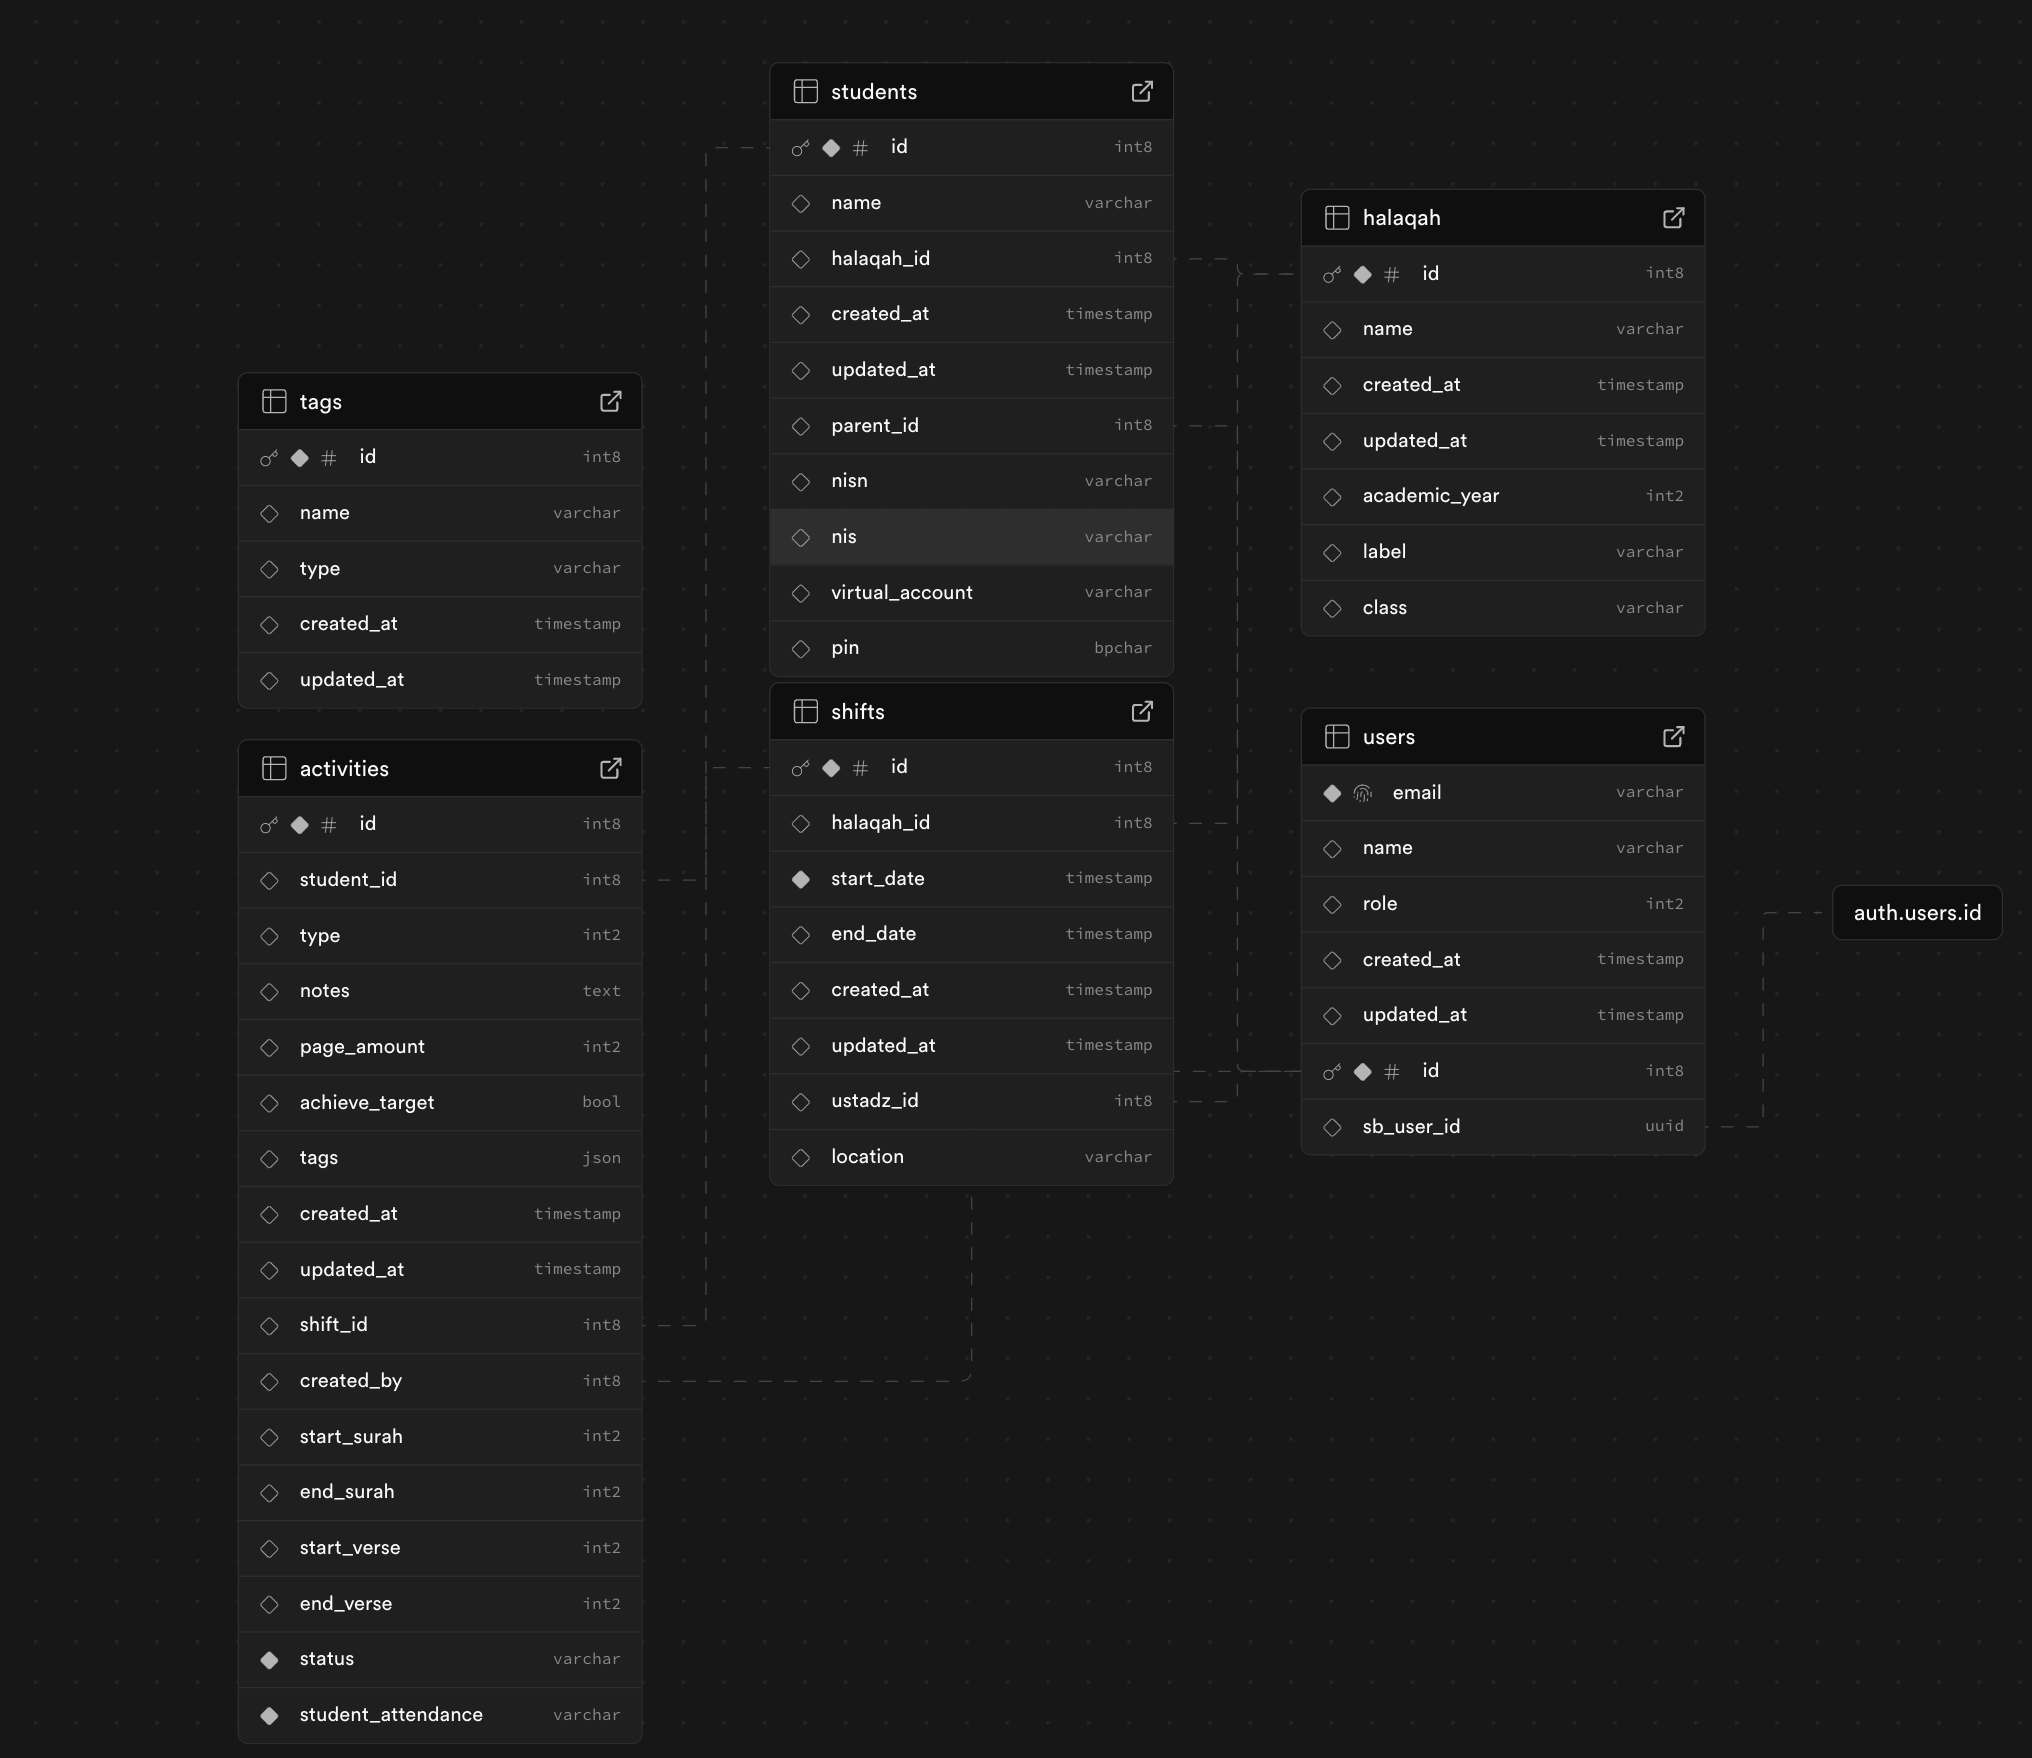
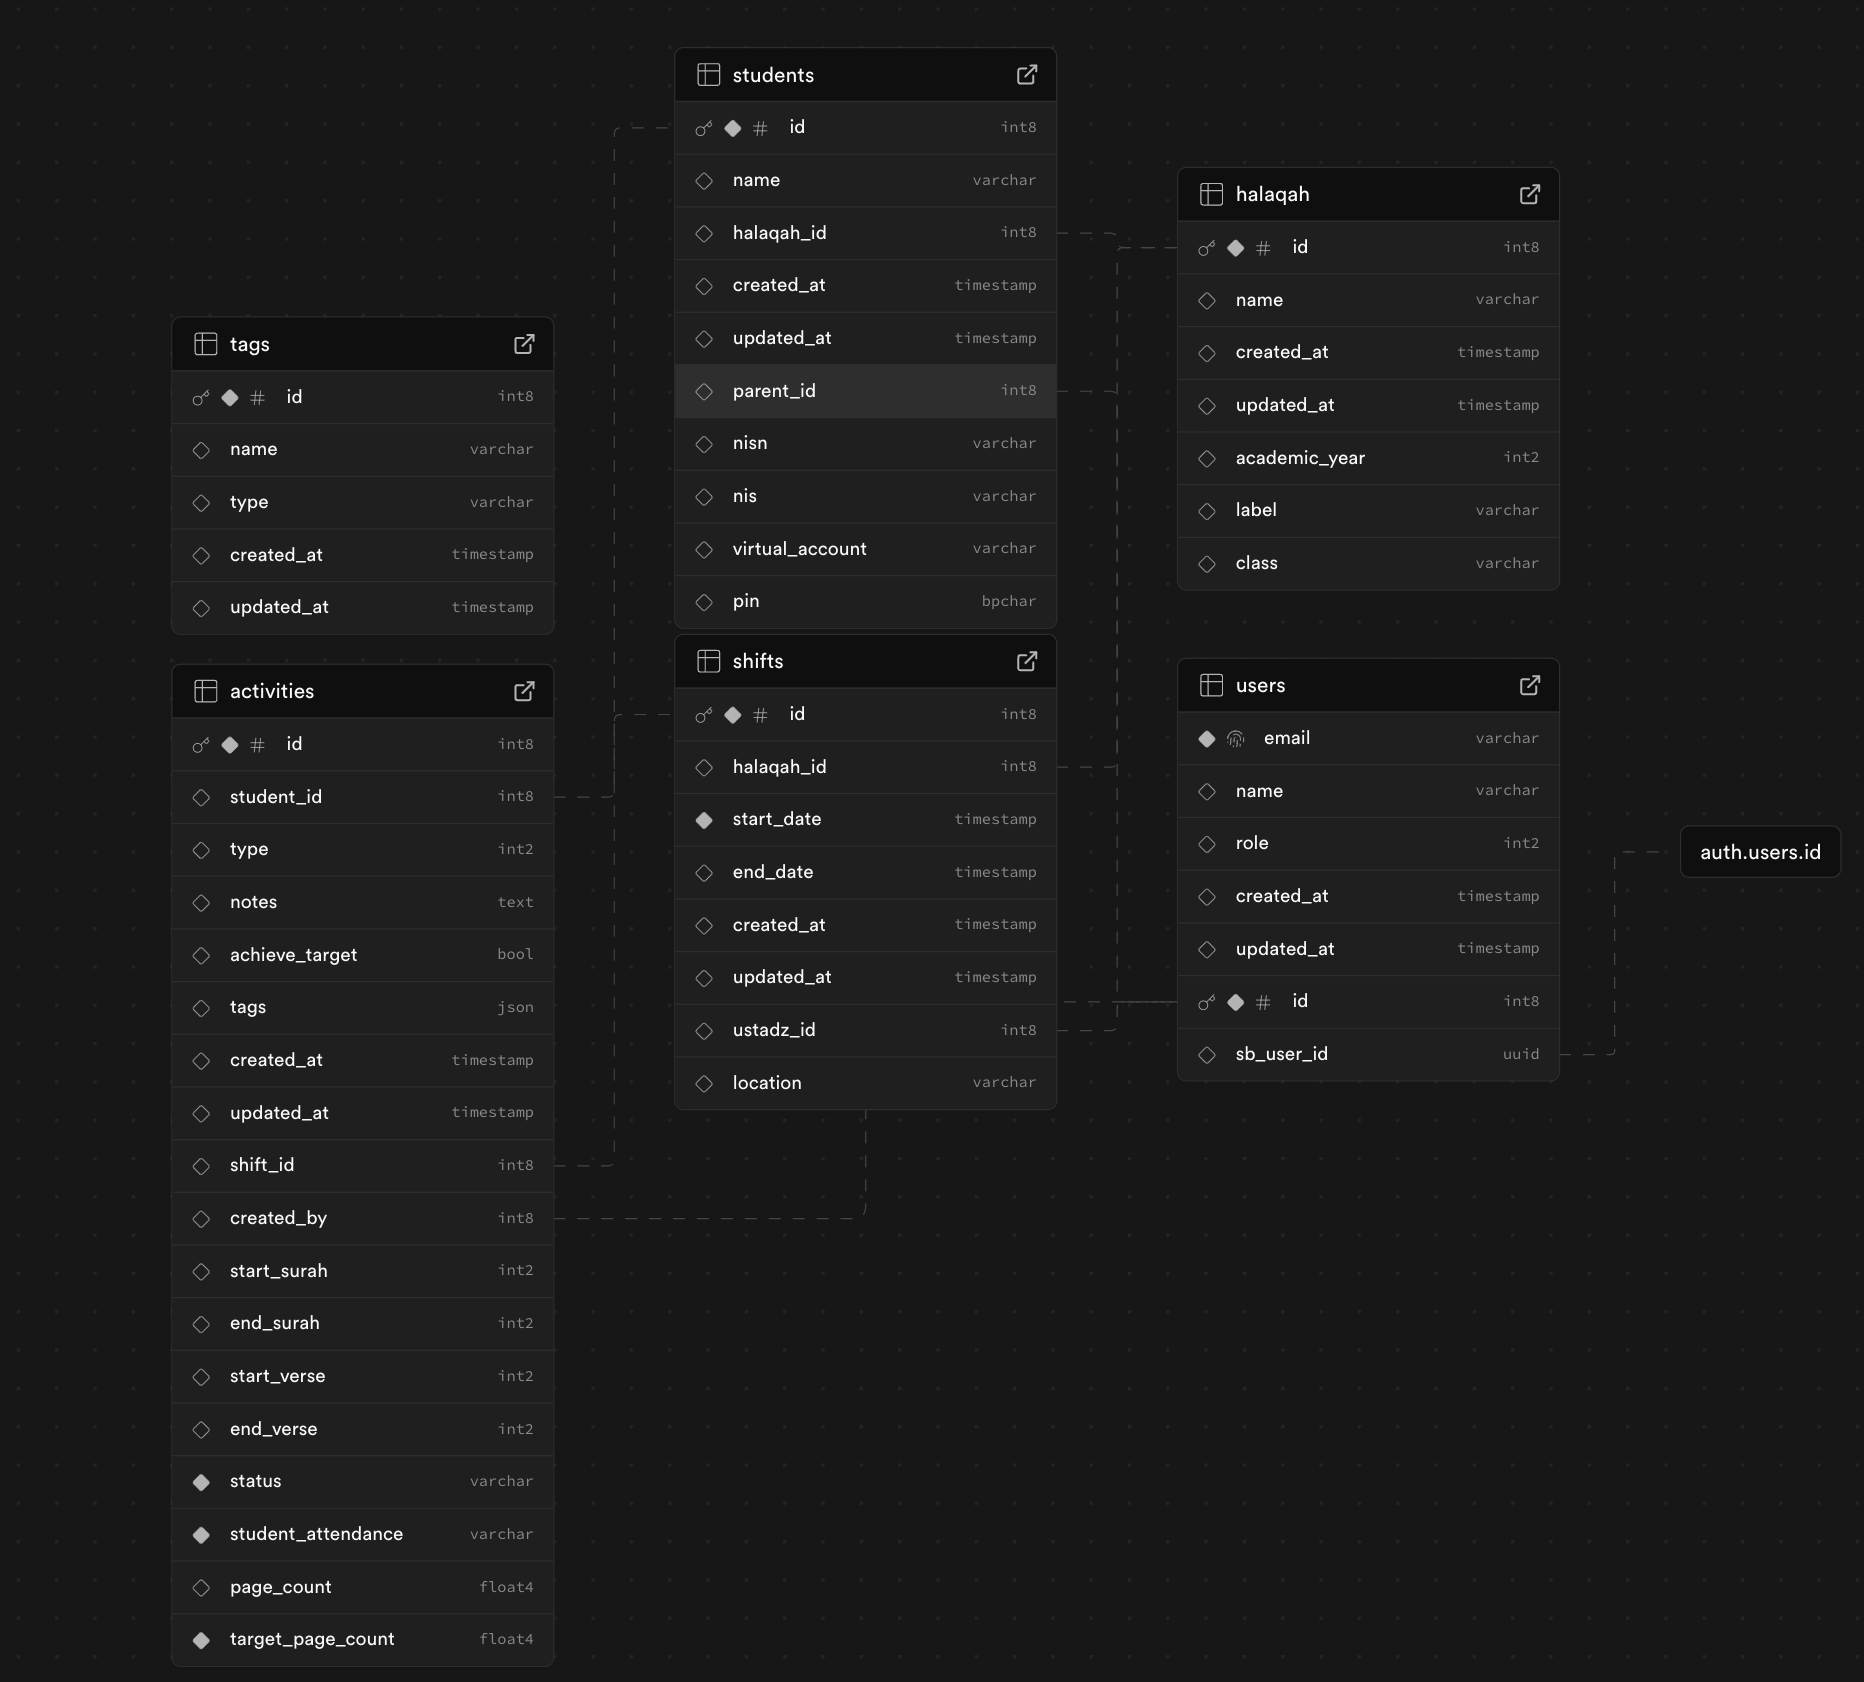
feat: alter activities add columns (#114)
* feat: create migration to update page count

* feat: update db type

* feat: update usage of page_count in codes

* feat: add target_page_count column

* chore: update db schema latest

* fix: type issue

diff --git a/src/models/database.types.ts b/src/models/database.types.ts
@@ -43,7 +43,7 @@ export type Database = {
           end_verse: number | null
           id: number
           notes: string | null
-          page_amount: number | null
+          page_count: number | null
           shift_id: number | null
           start_surah: number | null
           start_verse: number | null
@@ -51,6 +51,7 @@ export type Database = {
           student_attendance: string
           student_id: number | null
           tags: Json | null
+          target_page_count: number
           type: number | null
           updated_at: string | null
         }
@@ -62,7 +63,7 @@ export type Database = {
           end_verse?: number | null
           id?: never
           notes?: string | null
-          page_amount?: number | null
+          page_count?: number | null
           shift_id?: number | null
           start_surah?: number | null
           start_verse?: number | null
@@ -70,6 +71,7 @@ export type Database = {
           student_attendance?: string
           student_id?: number | null
           tags?: Json | null
+          target_page_count?: number
           type?: number | null
           updated_at?: string | null
         }
@@ -81,7 +83,7 @@ export type Database = {
           end_verse?: number | null
           id?: never
           notes?: string | null
-          page_amount?: number | null
+          page_count?: number | null
           shift_id?: number | null
           start_surah?: number | null
           start_verse?: number | null
@@ -89,6 +91,7 @@ export type Database = {
           student_attendance?: string
           student_id?: number | null
           tags?: Json | null
+          target_page_count?: number
           type?: number | null
           updated_at?: string | null
         }

diff --git a/src/components/Progress/ProgressGrid.tsx b/src/components/Progress/ProgressGrid.tsx
@@ -16,7 +16,7 @@ type ActivityEntry = NonNullable<
 >[number]
 
 interface Props {
-  activities: Array<ActivityEntry>
+  activities: Array<Omit<ActivityEntry, 'target_page_count'>>
   date: Date
   onChangeDate: Dispatch<SetStateAction<Date>>
   // The number of juz that the student has almost reached.
@@ -55,17 +55,17 @@ export function ProgressGrid({
     const {
       type: rawType,
       created_at,
-      page_amount,
+      page_count,
       student_attendance
     } = activity
     const type = rawType as ActivityTypeKey
 
-    // Assumption: if page_amount is null, then the student was absent.
-    if (!grids[type] || !created_at || page_amount === null) continue
+    // Assumption: if page_count is null, then the student was absent.
+    if (!grids[type] || !created_at || page_count === null) continue
 
     const gridId = getGridIdentifier(new Date(created_at))
     grids[type][gridId] = {
-      pageCount: page_amount,
+      pageCount: page_count,
       isStudentPresent: student_attendance === 'present'
     }
   }

diff --git a/src/utils/supabase/models/activities.ts b/src/utils/supabase/models/activities.ts
@@ -27,7 +27,8 @@ interface ActivitiesPayload {
   end_surah: number
   start_verse: number
   end_verse: number
-  page_amount: number
+  page_count: number
+  target_page_count: number
   student_attendance: StudentAttendance
   created_at?: string
 }
@@ -39,7 +40,8 @@ const selectQuery = `
     notes,
     tags,
     status,
-    page_amount,
+    target_page_count,
+    page_count,
     created_at,
     start_surah,
     end_surah,
@@ -105,7 +107,8 @@ export class Activities extends Base {
           notes: item.notes,
           status: item.status,
           tags: item.tags ?? [],
-          page_amount: item.page_amount,
+          target_page_count: item.target_page_count,
+          page_count: item.page_count,
           created_at: item.created_at,
           start_surah: surah.find((s) => s.id === item.start_surah)
             ?.name_simple,

diff --git a/src/components/Progress/ProgressGrid.stories.tsx b/src/components/Progress/ProgressGrid.stories.tsx
@@ -37,7 +37,7 @@ function generateData(
   const pageAmount = endDate.date() % 6
 
   return Array.from(new Array(7), (_, idx) => ({
-    page_amount: idx === 0 ? null : pageAmount + idx,
+    page_count: idx === 0 ? null : pageAmount + idx,
     type,
     created_at: dayjs(endDate).add(-idx, 'day').toISOString(),
     student_attendance: idx === 0 ? 'absent' : 'present',

diff --git a/src/utils/schemas/activities.ts b/src/utils/schemas/activities.ts
@@ -86,7 +86,7 @@ export const activityCreateSchema = object({
       then: (schema) => schema.notRequired(),
       otherwise: (schema) => schema.required()
     }),
-  page_amount: number()
+  page_count: number()
     .required('Jumlah halaman wajib diisi')
     .when('student_attendance', {
       is: 'absence',
